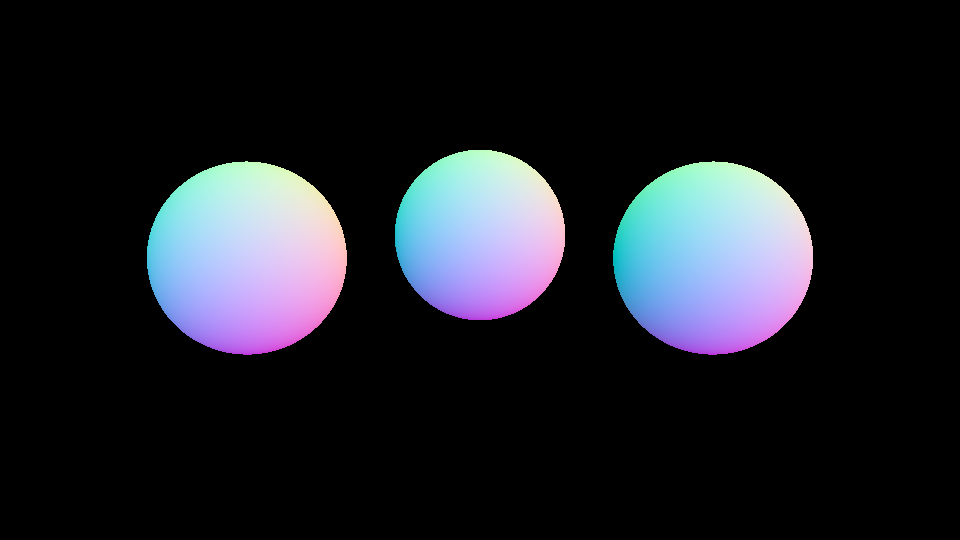
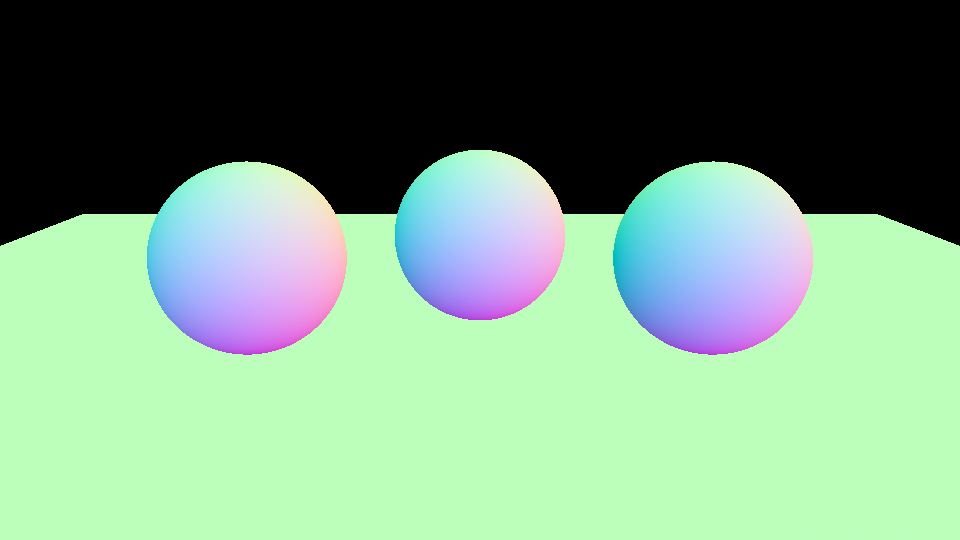
Implement triangle mesh intersections and update normal render

diff --git a/WhittedRayTracer/src/rt.cpp b/WhittedRayTracer/src/rt.cpp
@@ -348,6 +348,54 @@ bool intersectSphere(const Ray &ray, const Sphere &sphere, int drawCallIndex, co
     return true;
 }
 
+/* Ray-triangle intersection. A hit needs u >= 0, v >= 0, u + v <= 1 and t in [tMin, min(tMax, hit.t)].
+ * Both sides count (no back-face culling): rays inside glass hit the back.
+ * Ng is the unit e1 x e2, outward by the winding rtTriangleMesh kept; N is
+ * the vertex normals interpolated with the barycentrics (1 - u - v, u, v)
+ * when the mesh has them, else Ng. Neither is turned toward the ray here.
+ * Returns whether `hit` was updated. */
+bool intersectTriangle(const Ray &ray, const Triangle &tri, const Mesh &mesh, Hit &hit)
+{
+    const Vec3 p = cross(ray.d, tri.e2);
+    const float det = dot(tri.e1, p);
+    /* det = -D . (e1 x e2), so det / (|e1 x e2| |D|) is the cosine between the
+     * ray and the plane's normal: a relative test, the same for any triangle
+     * size. |cos| < 1e-6 is a grazing ray or a degenerate triangle. */
+    const Vec3 nGeom = cross(tri.e1, tri.e2);
+    if (!(det * det > 1e-12f * lengthSquared(nGeom) * lengthSquared(ray.d)))
+        return false;
+    const float invDet = 1.0f / det;
+
+    const Vec3 sv = ray.o - tri.p0;
+    const float u = dot(sv, p) * invDet;
+    if (u < 0.0f || u > 1.0f)
+        return false;
+
+    const Vec3 q = cross(sv, tri.e1);
+    const float v = dot(ray.d, q) * invDet;
+    if (v < 0.0f || u + v > 1.0f)
+        return false;
+
+    const float t = dot(tri.e2, q) * invDet;
+    if (t < ray.tMin || t > std::min(ray.tMax, hit.t))
+        return false;
+
+    const Vec3 ng = normalize(nGeom);
+    Vec3 n = ng;
+    if (mesh.hasNormals()) {
+        const float w = 1.0f - u - v;
+        n = normalize(mesh.N[(size_t)tri.v[0]] * w + mesh.N[(size_t)tri.v[1]] * u + mesh.N[(size_t)tri.v[2]] * v);
+    }
+
+    hit.t = t;
+    hit.P = ray.at(t);
+    hit.Ng = ng;
+    hit.N = n;
+    hit.drawCall = mesh.drawCall;
+    hit.hit = true;
+    return true;
+}
+
 /* A sphere of the given radius at the CTM's origin. */
 RtVoid rtSphere(RtFloat radius)
 {
@@ -385,11 +433,88 @@ RtVoid rtTriangleMesh(RtInt nverts, const RtPoint P[], const RtNormal N[], const
 {
     if (nverts <= 0 || ntris <= 0 || !P || !indices)
         return;
-    (void)N;
-    (void)st;
-    (void)Cs;
-    /* TODO: add a draw call, then bake the mesh to world space and add it and
-     * its triangles to their lists (Workflow, step 7) */
+    /* The draw call: everything copied now, as in rtSphere. */
+    DrawCall dc;
+    dc.objectToWorld = ctm();
+    dc.worldToObject = dc.objectToWorld.inverse();
+    dc.material = state.material;
+    dc.surface = state.surface;
+    dc.cutout = state.cutout;
+    dc.emissive = state.material.emission[0] > 0 || state.material.emission[1] > 0 ||
+                  state.material.emission[2] > 0;
+    state.scene.drawCalls.push_back(dc);
+    const int drawCallIndex = (int)state.scene.drawCalls.size() - 1;
+
+    /* The mesh, baked to world space. */
+    const Mat4 &toWorld = dc.objectToWorld;
+    const Mat4 normalMatrix = dc.worldToObject.transposed();
+
+    Mesh mesh;
+    mesh.drawCall = drawCallIndex;
+    mesh.P.resize((size_t)nverts);
+    for (int i = 0; i < nverts; ++i)
+        mesh.P[(size_t)i] = toWorld.point(Vec3(P[i]));
+    if (N) {
+        mesh.N.resize((size_t)nverts);
+        for (int i = 0; i < nverts; ++i)
+            mesh.N[(size_t)i] = normalize(normalMatrix.vector(Vec3(N[i])));
+    }
+    if (st)
+        mesh.st.assign(st, st + 2 * (size_t)nverts);
+    if (Cs) {
+        mesh.Cs.resize((size_t)nverts);
+        for (int i = 0; i < nverts; ++i)
+            mesh.Cs[(size_t)i] = Vec3(Cs[i]);
+    }
+
+    /* The triangles. */
+    const bool mirrored = toWorld.determinant3() < 0;
+    const int meshIndex = (int)state.scene.meshes.size();
+    mesh.firstTriangle = (int)state.scene.triangles.size();
+    int skipped = 0;
+    for (int k = 0; k < ntris; ++k) {
+        int i0 = indices[3 * k], i1 = indices[3 * k + 1], i2 = indices[3 * k + 2];
+        if (i0 < 0 || i0 >= nverts || i1 < 0 || i1 >= nverts || i2 < 0 || i2 >= nverts) {
+            ++skipped;
+            continue;
+        }
+        if (mirrored)
+            std::swap(i1, i2);
+
+        Triangle tri;
+        tri.p0 = mesh.P[(size_t)i0];
+        tri.e1 = mesh.P[(size_t)i1] - tri.p0;
+        tri.e2 = mesh.P[(size_t)i2] - tri.p0;
+
+        /* The tangents dP/ds and dP/dt from e1 = ds1 dPdu + dt1 dPdv,
+         * e2 = ds2 dPdu + dt2 dPdv (world space, as e1 and e2 are); zero
+         * without st or when the st are degenerate. */
+        tri.dPdu = Vec3(0, 0, 0);
+        tri.dPdv = Vec3(0, 0, 0);
+        if (mesh.hasTexCoords()) {
+            const float ds1 = mesh.st[2 * (size_t)i1] - mesh.st[2 * (size_t)i0];
+            const float ds2 = mesh.st[2 * (size_t)i2] - mesh.st[2 * (size_t)i0];
+            const float dt1 = mesh.st[2 * (size_t)i1 + 1] - mesh.st[2 * (size_t)i0 + 1];
+            const float dt2 = mesh.st[2 * (size_t)i2 + 1] - mesh.st[2 * (size_t)i0 + 1];
+            const float det = ds1 * dt2 - dt1 * ds2;
+            if (std::fabs(det) > 1e-12f) {
+                const float inv = 1.0f / det;
+                tri.dPdu = (tri.e1 * dt2 - tri.e2 * dt1) * inv;
+                tri.dPdv = (tri.e2 * ds1 - tri.e1 * ds2) * inv;
+            }
+        }
+        tri.v[0] = i0;
+        tri.v[1] = i1;
+        tri.v[2] = i2;
+        tri.mesh = meshIndex;
+        state.scene.triangles.push_back(tri);
+    }
+    mesh.triangleCount = (int)state.scene.triangles.size() - mesh.firstTriangle;
+    if (skipped > 0)
+        std::fprintf(stderr, "%s: rtTriangleMesh: %d of %d triangles have an index outside [0, %d), skipped\n",
+                     options.scene, skipped, (int)ntris, (int)nverts);
+
+    state.scene.meshes.push_back(std::move(mesh));
 }
 
 /* textures --------------------------------------------------------------- */
@@ -544,6 +669,15 @@ RtVoid rtWorldEnd(void)
                 for (size_t i = 0; i < state.scene.spheres.size(); ++i) {
                     const Sphere &sphere = state.scene.spheres[i];
                     intersectSphere(ray, sphere, sphere.drawCall, state.scene.drawCalls[sphere.drawCall], hit);
+                }
+
+                // Then every triangle, into the same Hit, so the nearest of
+                // spheres and triangles wins. intersectTriangle reads the
+                // draw call index from the mesh.
+                for (size_t i = 0; i < state.scene.triangles.size(); ++i) {
+                    const Triangle &triangle = state.scene.triangles[i];
+                    const Mesh &mesh = state.scene.meshes[(size_t)triangle.mesh];
+                    intersectTriangle(ray, triangle, mesh, hit);
                 }
 
                 // The shading normal as a color; a miss stays black.
